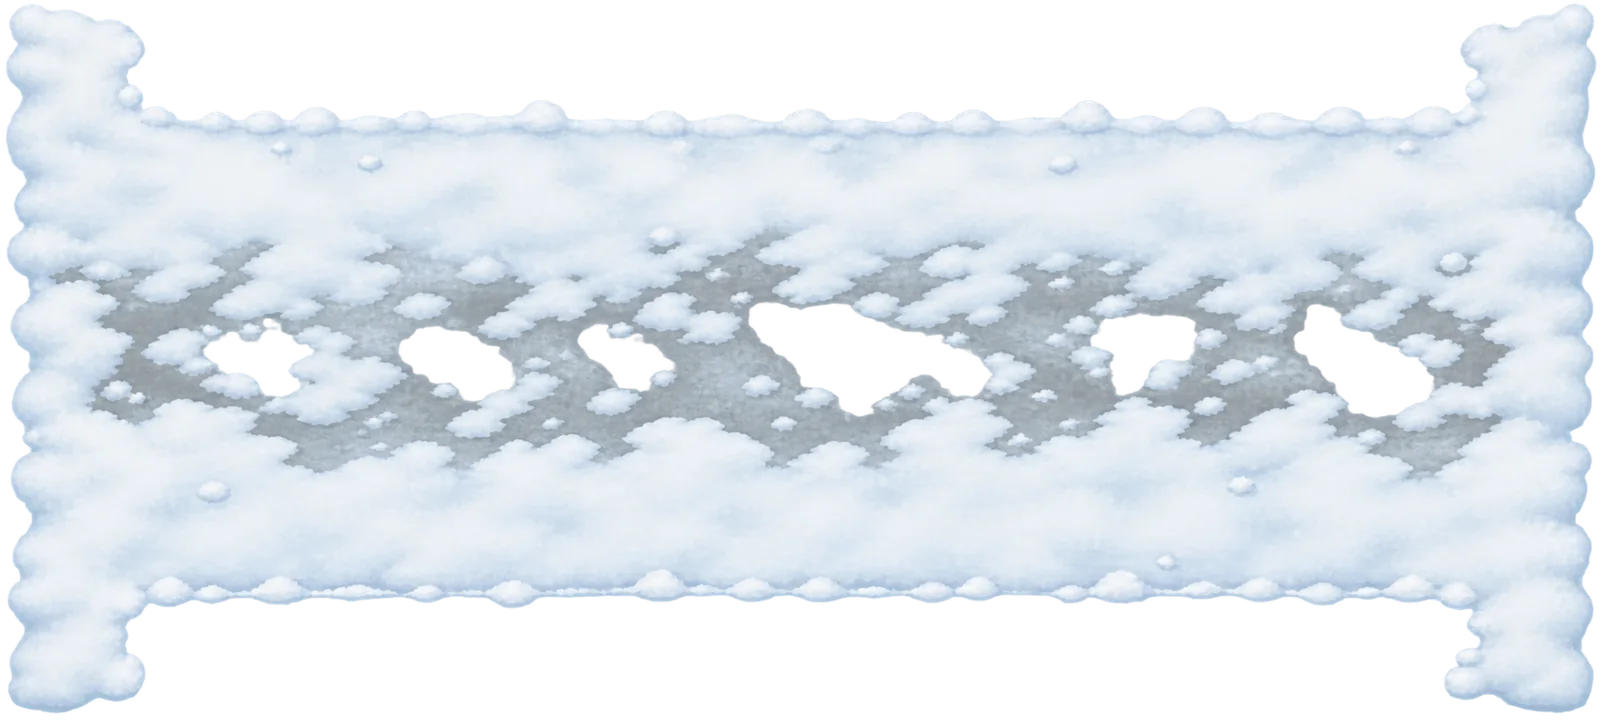
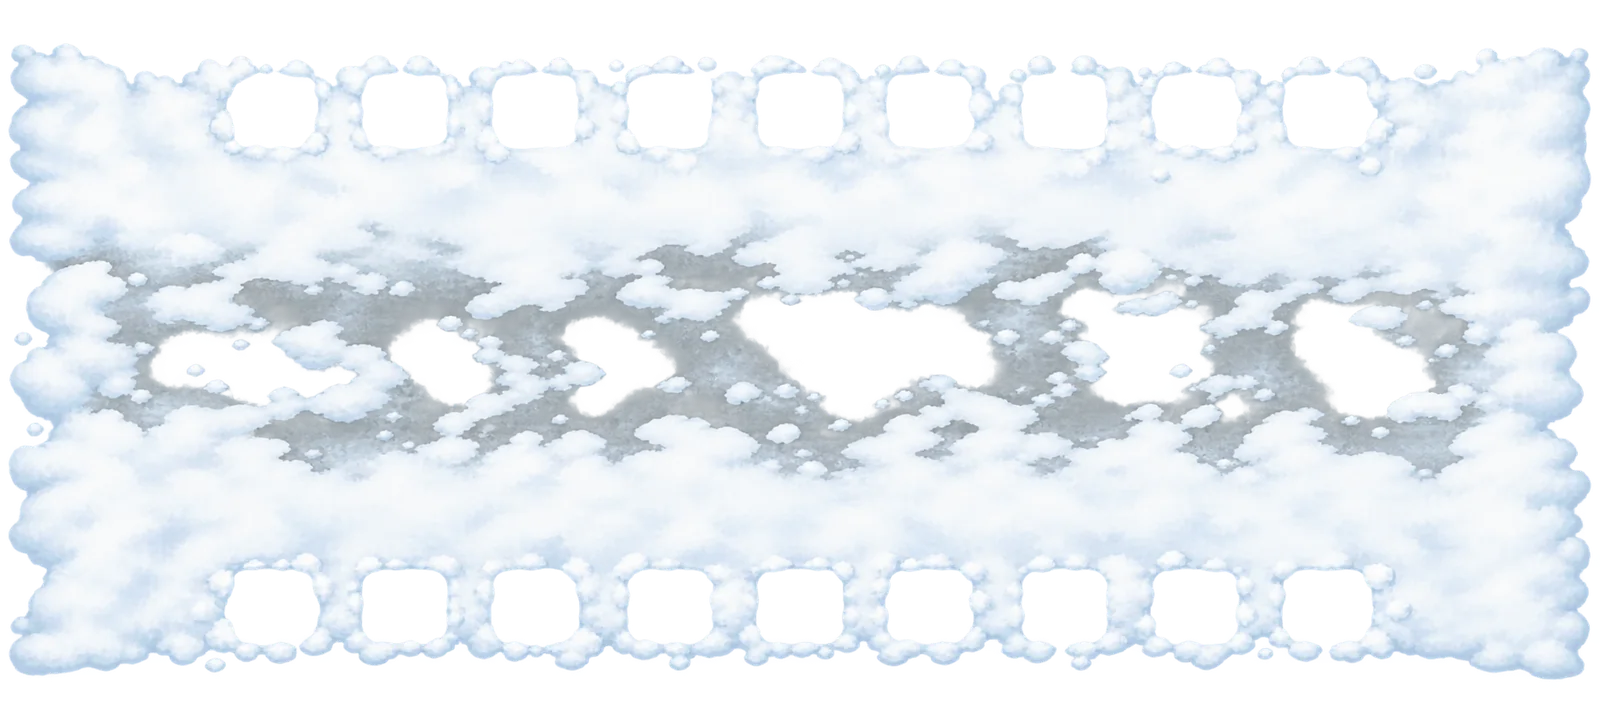
3.52: new heavy-snow field art, placed so its cleared number boxes line up with the yard numbers
Claude-Session: https://claude.ai/code/session_01Nx5NARwc86Ay4Sngkv8wPb

diff --git a/src/LiveField.jsx b/src/LiveField.jsx
@@ -32,13 +32,17 @@ const WX_CSS = `@keyframes lfRain { from { transform: translate(0, -30px) } to {
 // The ground under rain and snow: illustrated overlays (public/weather/, one per condition) laid
 // over the turf with the field's own geometry, under the paint, the players and the falling weather.
 const BASE = import.meta.env?.BASE_URL ?? "/";
+// where each overlay sits on the field, [x, y, width, height]: full field unless the art was drawn
+// on a tighter canvas (heavy snow: its cleared lanes measured against the yard numbers)
+const PLACE = { heavySnow: [-12.7, -46.4, 825, 456] };
 function Ground({ wx, kind }) {
   if (!wx.rain && !wx.snow) return null;
   return (
-    <g pointerEvents="none">
+    <g pointerEvents="none" clipPath="url(#lf-wxclip)">
+      <defs><clipPath id="lf-wxclip"><rect x="0" y="0" width={W} height={H} rx="9" /></clipPath></defs>
       {/* rain darkens the whole field a touch: wet grass */}
       {wx.rain && <rect x="0" y="0" width={W} height={H} fill="#041008" opacity={wx.rain === 2 ? 0.24 : 0.14} />}
-      <image href={`${BASE}weather/${kind}.webp`} x="0" y="0" width={W} height={H} preserveAspectRatio="none" />
+      {(() => { const [x, y, w, h] = PLACE[kind] || [0, 0, W, H]; return <image href={`${BASE}weather/${kind}.webp`} x={x} y={y} width={w} height={h} preserveAspectRatio="none" />; })()}
     </g>
   );
 }

diff --git a/src/patchNotes.js b/src/patchNotes.js
@@ -1392,4 +1392,7 @@ export const PATCH_NOTES = [
   { v: "3.51", date: "2026-10-20", title: "Illustrated Weather Fields", notes: [
     "New illustrated weather on the field. Light snow scatters soft patches across the grass and banks it along the sidelines. Heavy snow buries the field, leaves a worn, slushy strip down the middle and clears lanes for the yard numbers. Light rain leaves a wet sheen, scuffed turf and small puddles. Heavy rain churns up mud between the hashes and leaves standing water. The lines, players and falling rain or snow are drawn on top as before.",
   ] },
+  { v: "3.52", date: "2026-10-20", title: "New Heavy Snow", notes: [
+    "New heavy-snow field. Deep drifts bury the field, with a slushy, trampled strip down the middle and patches of grass showing through. Each yard number sits in its own plowed-out box, lined up with the numbers. The snow stays inside the field's border.",
+  ] },
 ];
